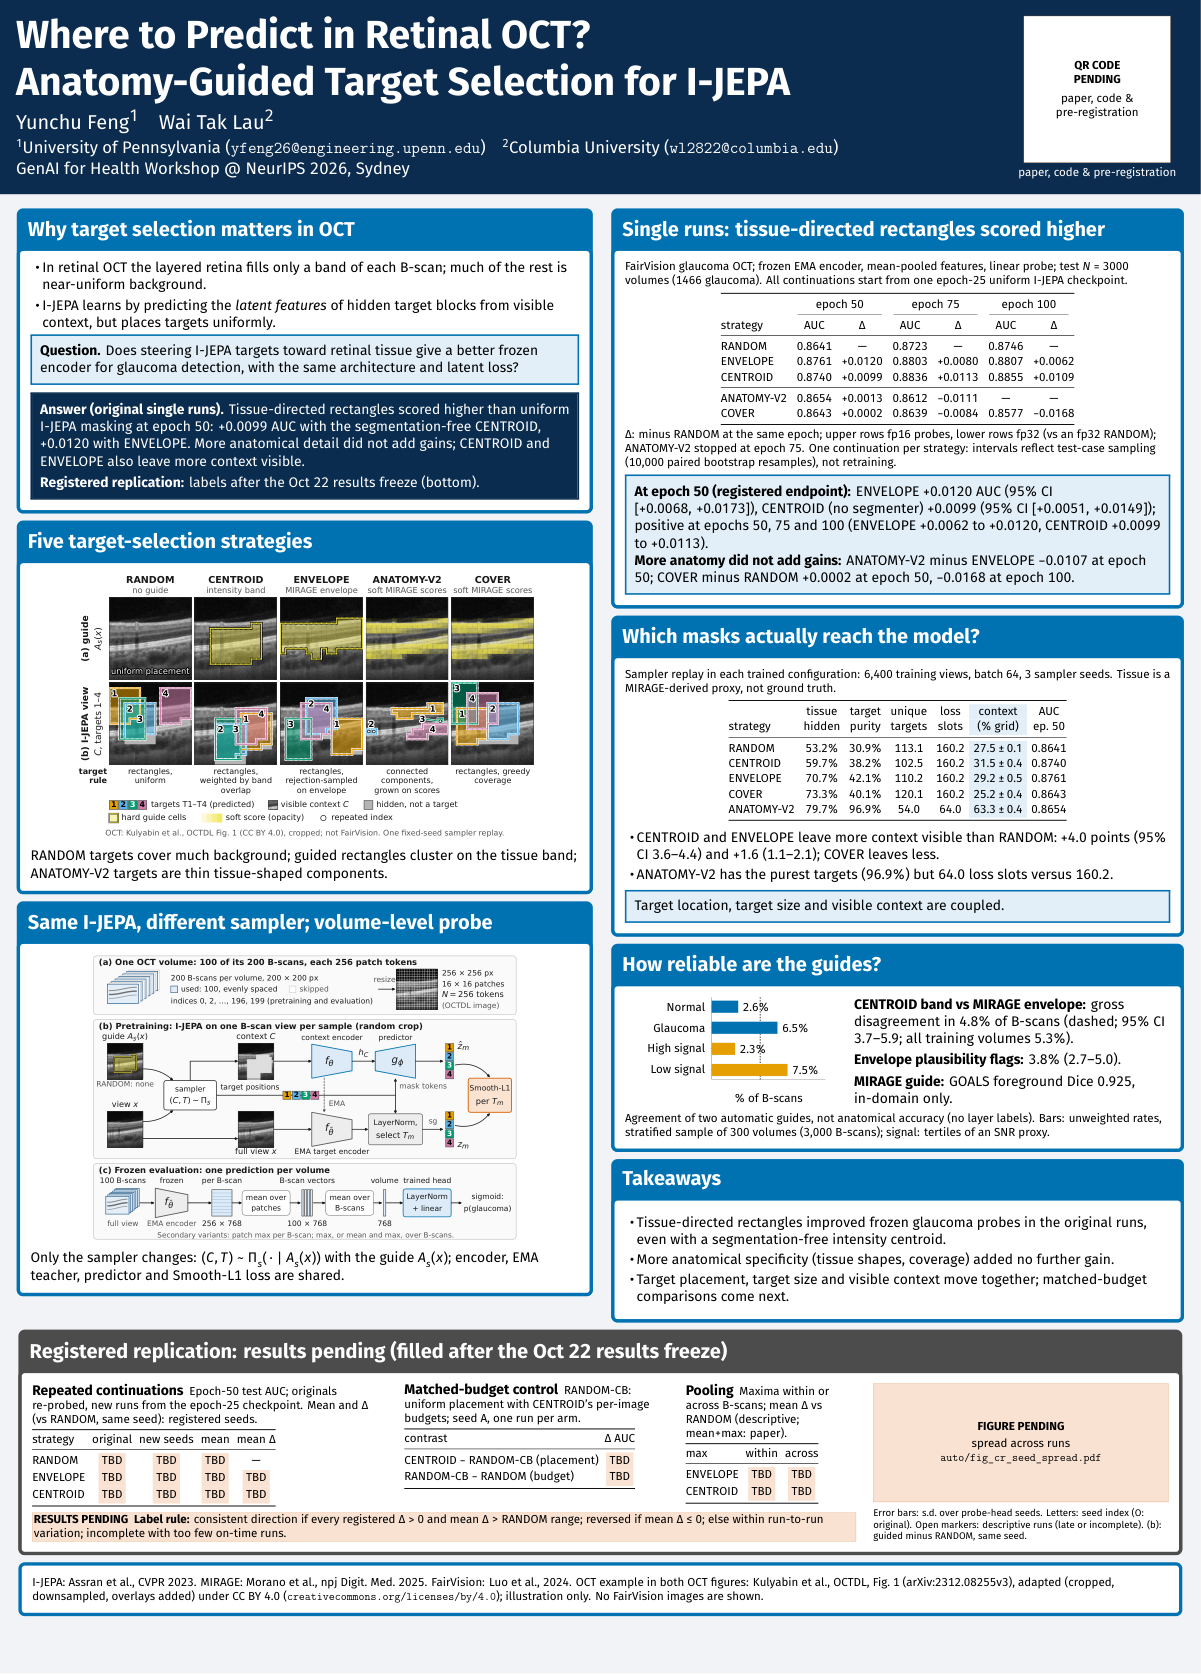
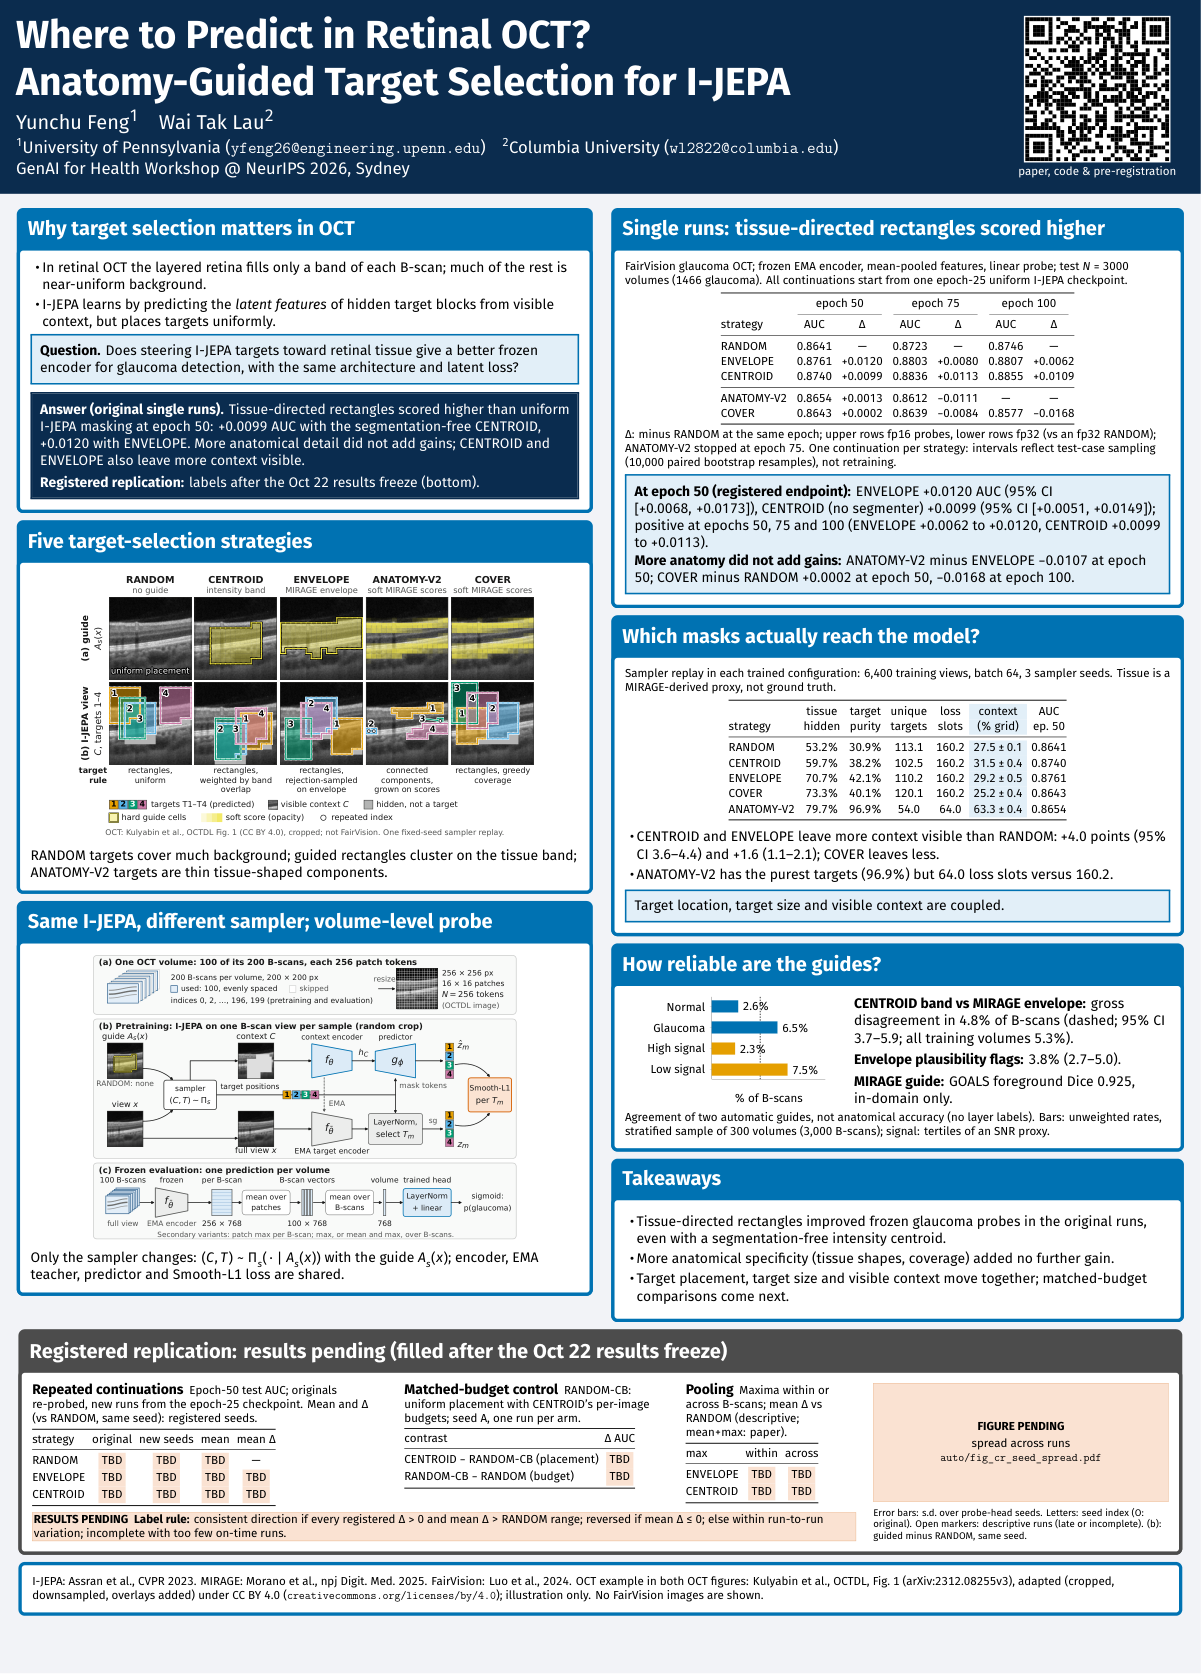
Finish poster QR and clarify camera-ready resource status

diff --git a/poster/genai4health2026/poster.tex b/poster/genai4health2026/poster.tex
@@ -286,7 +286,7 @@
 % Paper/code link for the QR code. Leave empty for the placeholder; set it to
 % the final URL of the public paper with the code and the pre-registration
 % (no '#' or '%') to draw a real code.
-\providecommand*{\PosterURL}{}
+\providecommand*{\PosterURL}{https://github.com/yfeng0206/I-JEPA_3D_OCT/tree/poster-ready/paper/genai4health2026}
 
 % Result placeholders (registered replication; used until auto/cr_results.tex
 % is loaded, see the top of this file and README.md).

diff --git a/poster/genai4health2026/README.md b/poster/genai4health2026/README.md
@@ -4,8 +4,8 @@ Poster for the accepted workshop paper "Where to Predict in Retinal OCT?
 Anatomy-Guided Target Selection for I-JEPA" (GenAI for Health Workshop,
 NeurIPS 2026, Sydney, Dec 12 2026; every accepted paper presents a poster).
 
-Status: draft. Authors and affiliations are final. The QR link is pending a
-decision (see "What to fill in later"). The registered-replication block fills
+Status: draft. Authors and affiliations are final. The QR links to the public
+paper folder on `poster-ready`, with paper, code and registration links. The registered-replication block fills
 in automatically from the generated results after the Oct 22 results freeze;
 until then it shows TBD placeholders and a RESULTS PENDING banner.
 
@@ -72,7 +72,7 @@ macros; do not type result numbers into `poster.tex`.
 - Replication block: the label rule (pre-registration section 3, amendment 1)
   in the RESULTS PENDING banner and, with results, at the end of the outcome
   strip; pooling panel notes the mean+max variant (paper).
-- Credits: "adapted (cropped, downsampled, overlays added)"; QR placeholder
+- Credits: "adapted (cropped, downsampled, overlays added)"; QR caption
   "paper, code & pre-registration" (R1 M15).
 
 ## Build
@@ -438,13 +438,13 @@ allowed. Until 2026-10-17 the default was 24 x 36 in (`neurips-ws`), which is
 1. **Authors and affiliations**: done (2026-10-10). `\PosterAuthors` and
    `\PosterAffiliations` in `poster.tex` carry the same names and order as
    `paper/genai4health2026/camera_ready_authors.json`.
-2. **QR code: pending a decision by the authors.** It should point to the
-   public paper together with the code and the pre-registration
-   (`PREREGISTRATION_cr_seed_v1.md`, R1 M15: "registered" must be
-   verifiable); the placeholder says "paper, code & pre-registration". Set
-   `\providecommand*{\PosterURL}{...}` in `poster.tex` to the chosen URL
-   (avoid `#` and `%`). An empty value draws the "QR CODE PENDING" box; a URL
-   draws a real code (tested).
+2. **QR code: configured.** It points to
+   `https://github.com/yfeng0206/I-JEPA_3D_OCT/tree/poster-ready/paper/genai4health2026`,
+   whose README links the paper, code, poster and pre-registration. The guide
+   distinguishes the historical reviewed PDF from the unfinished camera-ready
+   source and poster. After release, update those status descriptions and
+   verify the links while signed out. Keep the `poster-ready` branch available
+   for the printed QR. `\PosterURL` in `poster.tex` controls the destination.
 3. **Registered replication, matched-budget control, pooling, seed spread**:
    automatic, nothing to edit in `poster.tex`. After the Oct 22 freeze, once
    `autopilot/make_cr_results.py build` has written the real results to

diff --git a/paper/genai4health2026/README.md b/paper/genai4health2026/README.md
@@ -1,5 +1,30 @@
 # GenAI4Health 2026 paper package
 
+## Paper, poster, code and registration
+
+**Where to Predict in Retinal OCT? Anatomy-Guided Target Selection for I-JEPA**
+— Yunchu Feng and Wai Tak Lau. Accepted poster, GenAI4Health @ NeurIPS 2026.
+
+This is the poster QR destination on the `poster-ready` branch.
+
+| Resource | Status |
+|---|---|
+| [Paper PDF](main_submission.pdf) | Historical reviewed v9, anonymous; not the final camera-ready PDF |
+| [Camera-ready source](main_submission.tex) | Revision in progress; results and acknowledgments pending |
+| [Poster PDF, 61 × 85 cm](../../poster/genai4health2026/poster_print.pdf) | Draft with registered-results placeholders; not ready to print |
+| [Code and project overview](../../README.md) | Original experiments and camera-ready tooling |
+| [Pre-registration and amendments](PREREGISTRATION_cr_seed_v1.md) | Committed protocol, outcome rules and treatment of incomplete/late runs |
+| [Campaign configurations](../../configs/cr_seed_v1) | Repeated continuations and matched-budget control |
+
+The campaign's test results remain sealed until **October 22, 2026, 08:00 PDT**.
+New seeds are continuations from one shared epoch-25 checkpoint, not independent
+initializations. RANDOM-CB matches CENTROID shadow-mask budgets; it is one
+control run, and ENVELOPE is not budget-matched. Guide agreement and plausibility
+statistics do not measure anatomical accuracy. Final results will replace the
+placeholders after the registered analysis and release checks.
+
+## Package and historical release
+
 Working directory for the NeurIPS 2026 GenAI4Health workshop paper. The
 submitted version used the double-blind 9-page format; the camera-ready version
 uses the workshop template (`genai4health_2026.sty`, which loads the unmodified

diff --git a/README.md b/README.md
@@ -4,6 +4,16 @@ Self-supervised pretraining using [I-JEPA](https://github.com/facebookresearch/i
 
 ## Current workshop study
 
+**Accepted poster, GenAI4Health @ NeurIPS 2026.** The camera-ready work is on
+[`poster-ready`](https://github.com/yfeng0206/I-JEPA_3D_OCT/tree/poster-ready).
+Start with the [paper and poster guide](paper/genai4health2026/README.md) for
+the paper, printable poster draft, code and
+[registered replication protocol](paper/genai4health2026/PREREGISTRATION_cr_seed_v1.md).
+The registered campaign adds repeated epoch-25-to-50 continuations, a
+CENTROID-matched budget control, and alternative frozen-probe pooling.
+Results integration is pending the **October 22, 2026, 08:00 PDT** freeze;
+the historical results below are not the campaign's results.
+
 The canonical paper is `paper\genai4health2026\main_submission.tex`; the older
 `main.tex` in that directory is not the current submission source. The active
 investigation is recorded in `autopilot\investigations\delivered_task\BOARD.md`,
@@ -19,7 +29,7 @@ The current paper compares **frozen MeanPool probes** after different masking
 policies. CENTROID (historically named `oracle`) reaches **0.8855** test AUC;
 the **0.8947** value below is from a different, fine-tuned evaluation regime.
 The encoder operates on **2D B-scans**, followed by pooling across a volume.
-There is one completed pretraining continuation per policy and the same test
+The original comparison has one pretraining continuation per policy and the same test
 split was repeatedly inspected. The results describe those runs, not an
 established ranking over independent retrainings.
 
